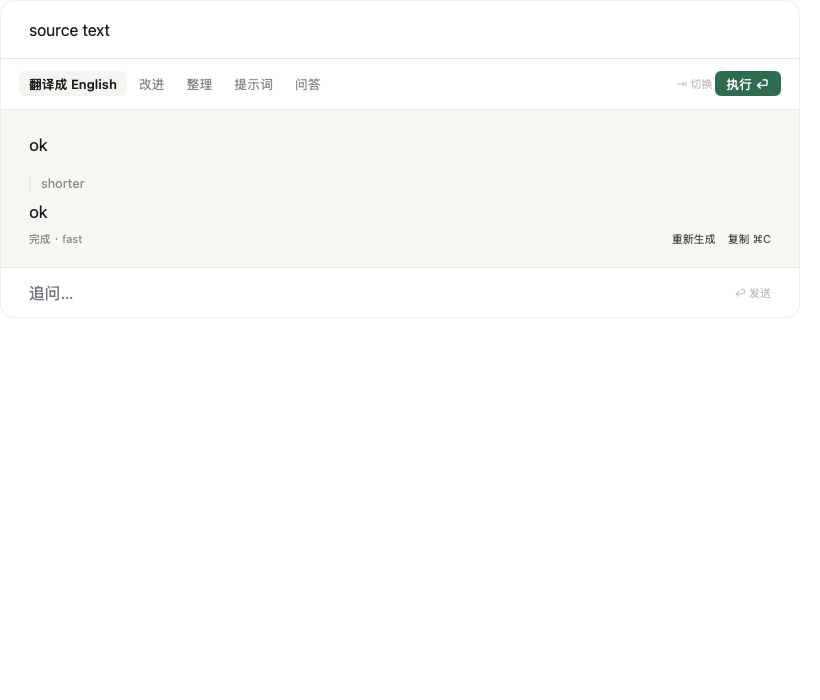
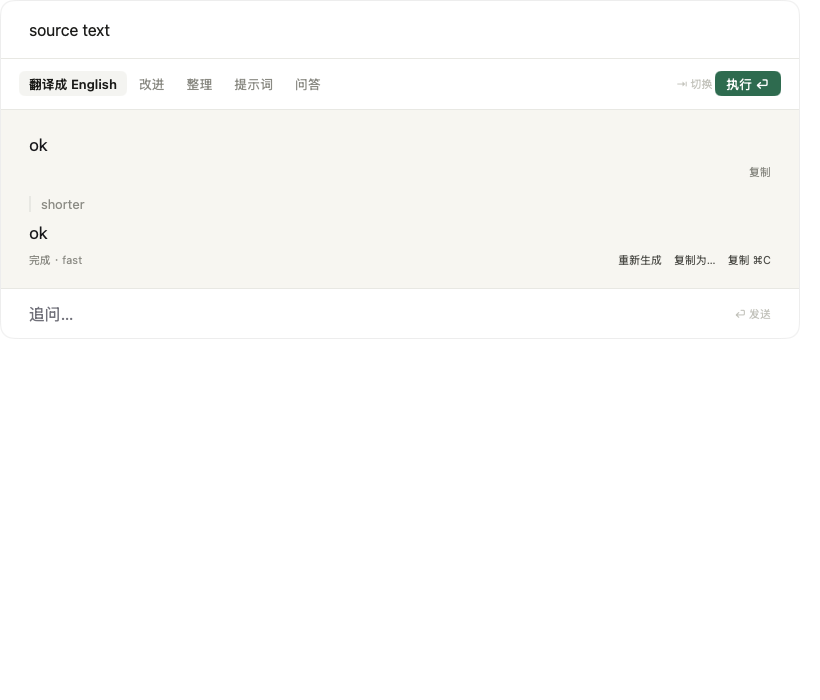
feat: speak Chinese in MyGo's own controls, and check the dark panel
The app declares Simplified Chinese as its only language and links
MyGo's translation, so the code block's copy button and role menu items
are in Chinese like the rest of the interface. A snapshot of the panel in
the dark appearance joins the others (F1.8).

Changed region(s): [[0.0305, 0.24, 0.0915, 0.48], [0.7317, 0.33, 0.9451, 0.45], [0.9146, 0.24, 0.9451, 0.27]]

diff --git a/internal/panel/panel_test.go b/internal/panel/panel_test.go
@@ -14,6 +14,7 @@ import (
 	"time"
 
 	"github.com/egoist/mygo"
+	_ "github.com/egoist/mygo/locales/zh-Hans"
 	"github.com/egoist/mygo/ui"
 
 	"github.com/Umupa/cida-next/internal/config"
@@ -284,5 +285,18 @@ func TestHeightEases(t *testing.T) {
 	}
 	if len(h.sizes) < 2 {
 		t.Errorf("resized %d times while easing, want several", len(h.sizes))
+	}
+}
+
+func TestCodeBlockSpeaksChinese(t *testing.T) {
+	h := newHarness(t, script{pieces: []string{"```go\nx := 1\n```\n"}})
+	h.tt.SetLocale("zh-Hans")
+	h.tt.Frame()
+	h.tt.Click("原文")
+	h.tt.Type("x")
+	h.tt.Key(0, ui.KeyEnter)
+	h.drain()
+	if h.tt.HasText("Copy") {
+		t.Errorf("the code block's button is in English: %q", h.tt.Texts())
 	}
 }

diff --git a/internal/app/app.go b/internal/app/app.go
@@ -11,6 +11,8 @@ import (
 	"time"
 
 	"github.com/egoist/mygo"
+	// MyGo's own strings in Simplified Chinese.
+	_ "github.com/egoist/mygo/locales/zh-Hans"
 
 	"github.com/Umupa/cida-next/internal/capture"
 	"github.com/Umupa/cida-next/internal/config"
@@ -52,6 +54,9 @@ func Run() error {
 		return nil
 	}
 	mygo.App.SetActivationPolicy(mygo.ActivationPolicyAccessory)
+	// The app is written in Simplified Chinese only, so MyGo's own controls
+	// and menu items speak it too.
+	mygo.App.SetLanguages("zh-Hans")
 
 	dataDir, err := mygo.App.Path(mygo.PathUserData)
 	if err != nil {

diff --git a/internal/panel/dark_test.go b/internal/panel/dark_test.go
@@ -1,0 +1,18 @@
+package panel
+
+import (
+	"testing"
+
+	"github.com/egoist/mygo/ui"
+)
+
+func TestDarkSnapshot(t *testing.T) {
+	h := newHarness(t, script{pieces: []string{"## 标题\n\n正文 `code`\n\n| a | b |\n|---|---|\n| 1 | 2 |\n\n```go\nfunc main() {}\n```\n"}})
+	h.tt.SetDark(true)
+	h.tt.Frame()
+	h.tt.Click("原文")
+	h.tt.Type("hello")
+	h.tt.Key(0, ui.KeyEnter)
+	h.drain()
+	h.snapshot("dark")
+}
